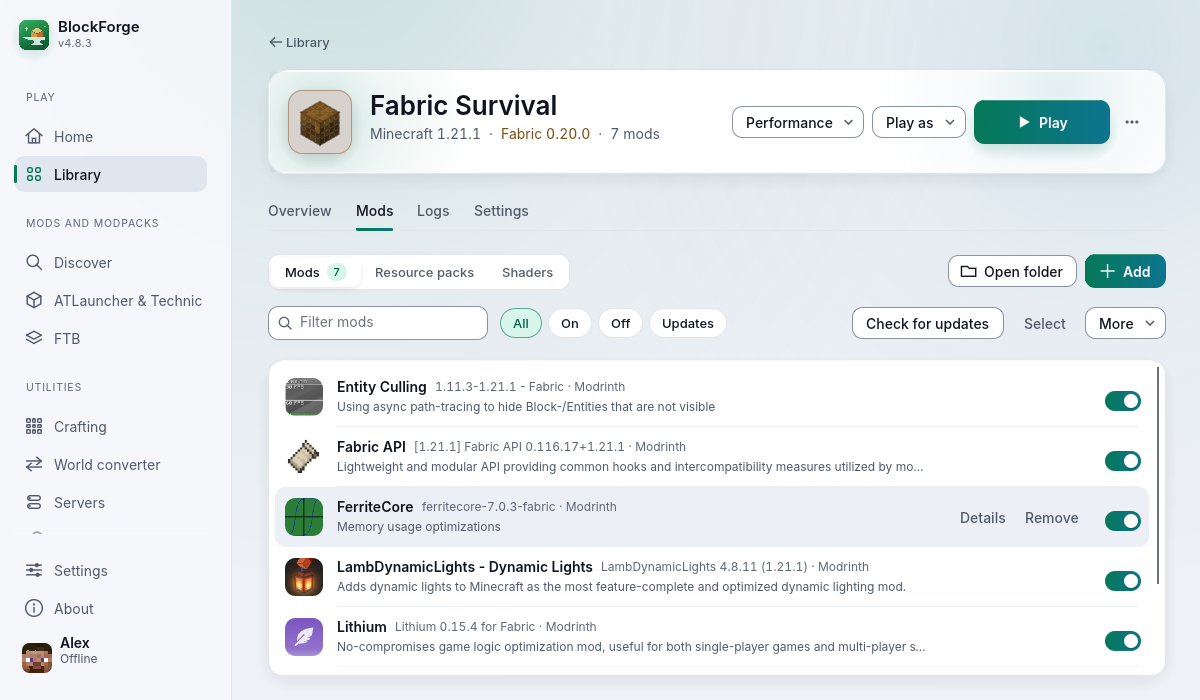
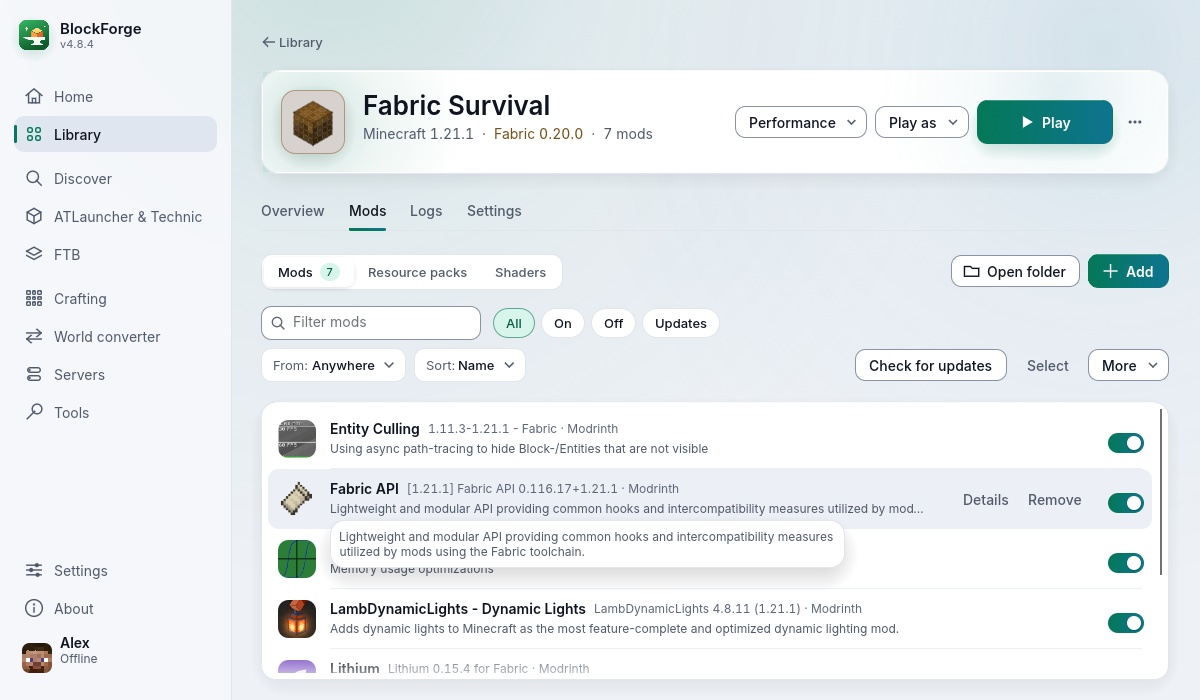
Layout for every window size and more options: folding sidebar, Settings search, Library views, Discover filters [minor]

diff --git a/src/gui/widgets.rs b/src/gui/widgets.rs
@@ -208,6 +208,16 @@ pub fn readable_column<R>(ui: &mut Ui, max: f32, add: impl FnOnce(&mut Ui) -> R)
         return add(ui);
     }
     let column = egui::Rect::from_min_size(rect.min + vec2(offset, 0.0), vec2(width, rect.height()));
+    // the wheel over the empty sides scrolls the page too: the movement is handed to the page's scroll area (the
+    // first one laid out in the column) as if the pointer were over it
+    let in_margin = ui.ctx().pointer_hover_pos().is_some_and(|p| rect.contains(p) && !column.contains(p))
+        && ui.ctx().layer_id_at(ui.ctx().pointer_hover_pos().unwrap_or_default()) == Some(ui.layer_id());
+    if in_margin {
+        let delta = ui.input_mut(|i| std::mem::take(&mut i.smooth_scroll_delta));
+        if delta != Vec2::ZERO {
+            ui.scroll_with_delta(delta);
+        }
+    }
     ui.scope_builder(egui::UiBuilder::new().max_rect(column).layout(*ui.layout()), add).inner
 }
 

diff --git a/CHANGELOG.md b/CHANGELOG.md
@@ -5,7 +5,8 @@ The section for a version is used as the text of its release on GitHub. Older re
 
 ## 4.9.0
 
-A new look for the whole launcher: deeper colours, glass and soft depth, and motion that makes it feel smooth.
+A new look for the whole launcher, with smooth motion, a layout that fits every window, and more options where they
+help.
 
 ### What is new
 
@@ -27,10 +28,36 @@ A new look for the whole launcher: deeper colours, glass and soft depth, and mot
 - **Tools, Servers, World converter and Crafting.** Tools are tiles, each server is a card with its status, and the
   converter's set-up is a stepper that ticks off each step.
 
+### Better layout and more options
+
+- **Fits every window.** Below about 1000 points wide, the sidebar folds smoothly into a rail of icons (names in
+  tooltips; the account, downloads and running games stay in it). On wide screens, pages of text and forms stay at a
+  readable width in the middle, and lists and grids use the room.
+- **Settings.** A search field (Ctrl+F) that finds a setting by its name, its explanation or a keyword, and a list of
+  the groups that jumps to each one. The groups are reordered (Game, Performance, Appearance, Launcher, Backups,
+  Network and downloads, Privacy), rarely needed settings sit under "Advanced", and a changed setting has a "Reset"
+  back to its default. Units are shown (GB, MB, seconds). An instance's settings use the same layout.
+- **Library.** A grid or list view (the list's columns sort when clicked), more ways to sort (recently added, newest
+  Minecraft, loader), and chips to show one loader or the running games, with counts. The search also finds the
+  Minecraft version and the loader. The view and the order are remembered.
+- **Home.** On a wide window, News sits beside your instances. "Continue playing" lists the others by when they were
+  last played. News can be hidden.
+- **Instance page.** The overview uses two columns on a wide window. The Logs tab has All / Errors / Warnings chips
+  and a "Wrap lines" switch.
+- **Discover and the modpack pages.** Filters for category, Minecraft version, loader and client or server, shown
+  as chips you can remove, with "Clear filters". Results can be shown as cards on a wide window. The Mods tab sorts
+  by name, recently added or updates first, and shows only the mods from Modrinth, CurseForge or added by hand.
+- **New instance.** A version search with Releases, Snapshots and Old versions to switch on, the latest release
+  clearly marked, and the loader's version shown as soon as a loader is picked. "More options" sets the picture,
+  the memory and a description. The Create button stays in view.
+- **Accounts, Export and Who's playing** are laid out more clearly; Export's formats are cards and its folder list
+  has "Select all" and "Select none".
+
 ### Fixed
 
 - In a narrow window, the buttons under a mod's details and in the selection bar of the Mods tab now wrap instead of
   running past the edge of the page.
+- A new Fabric, Quilt or NeoForge instance gets the newest stable loader, not a test build that happens to be newer.
 
 ## 4.8.4
 
